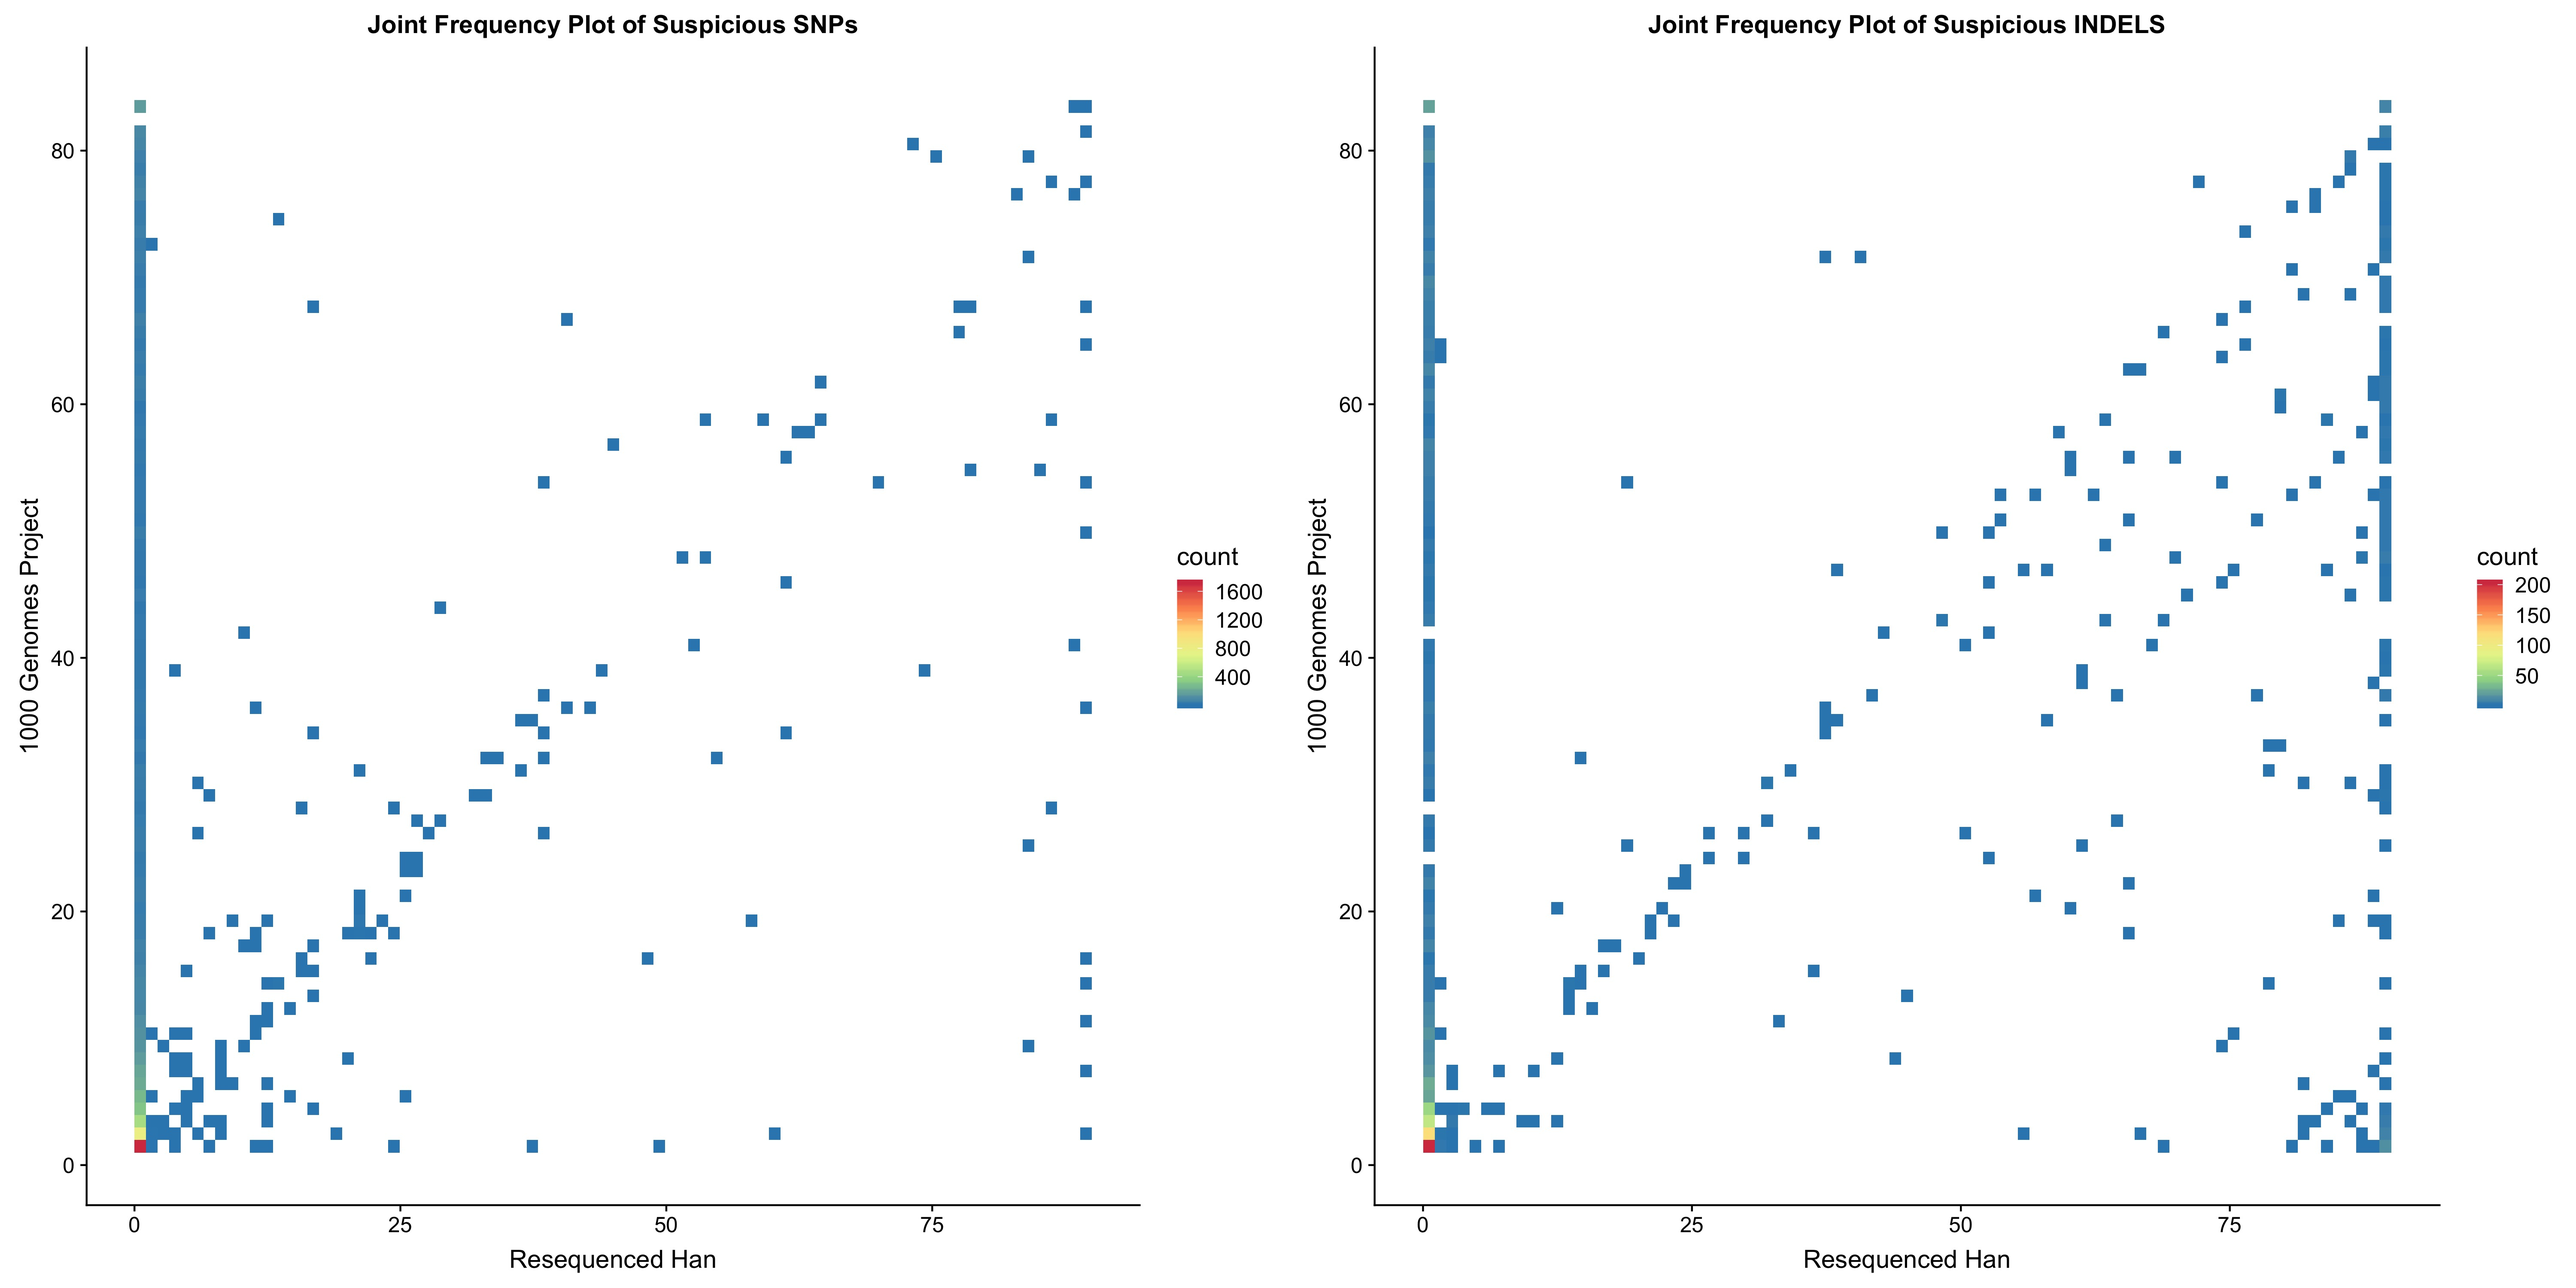
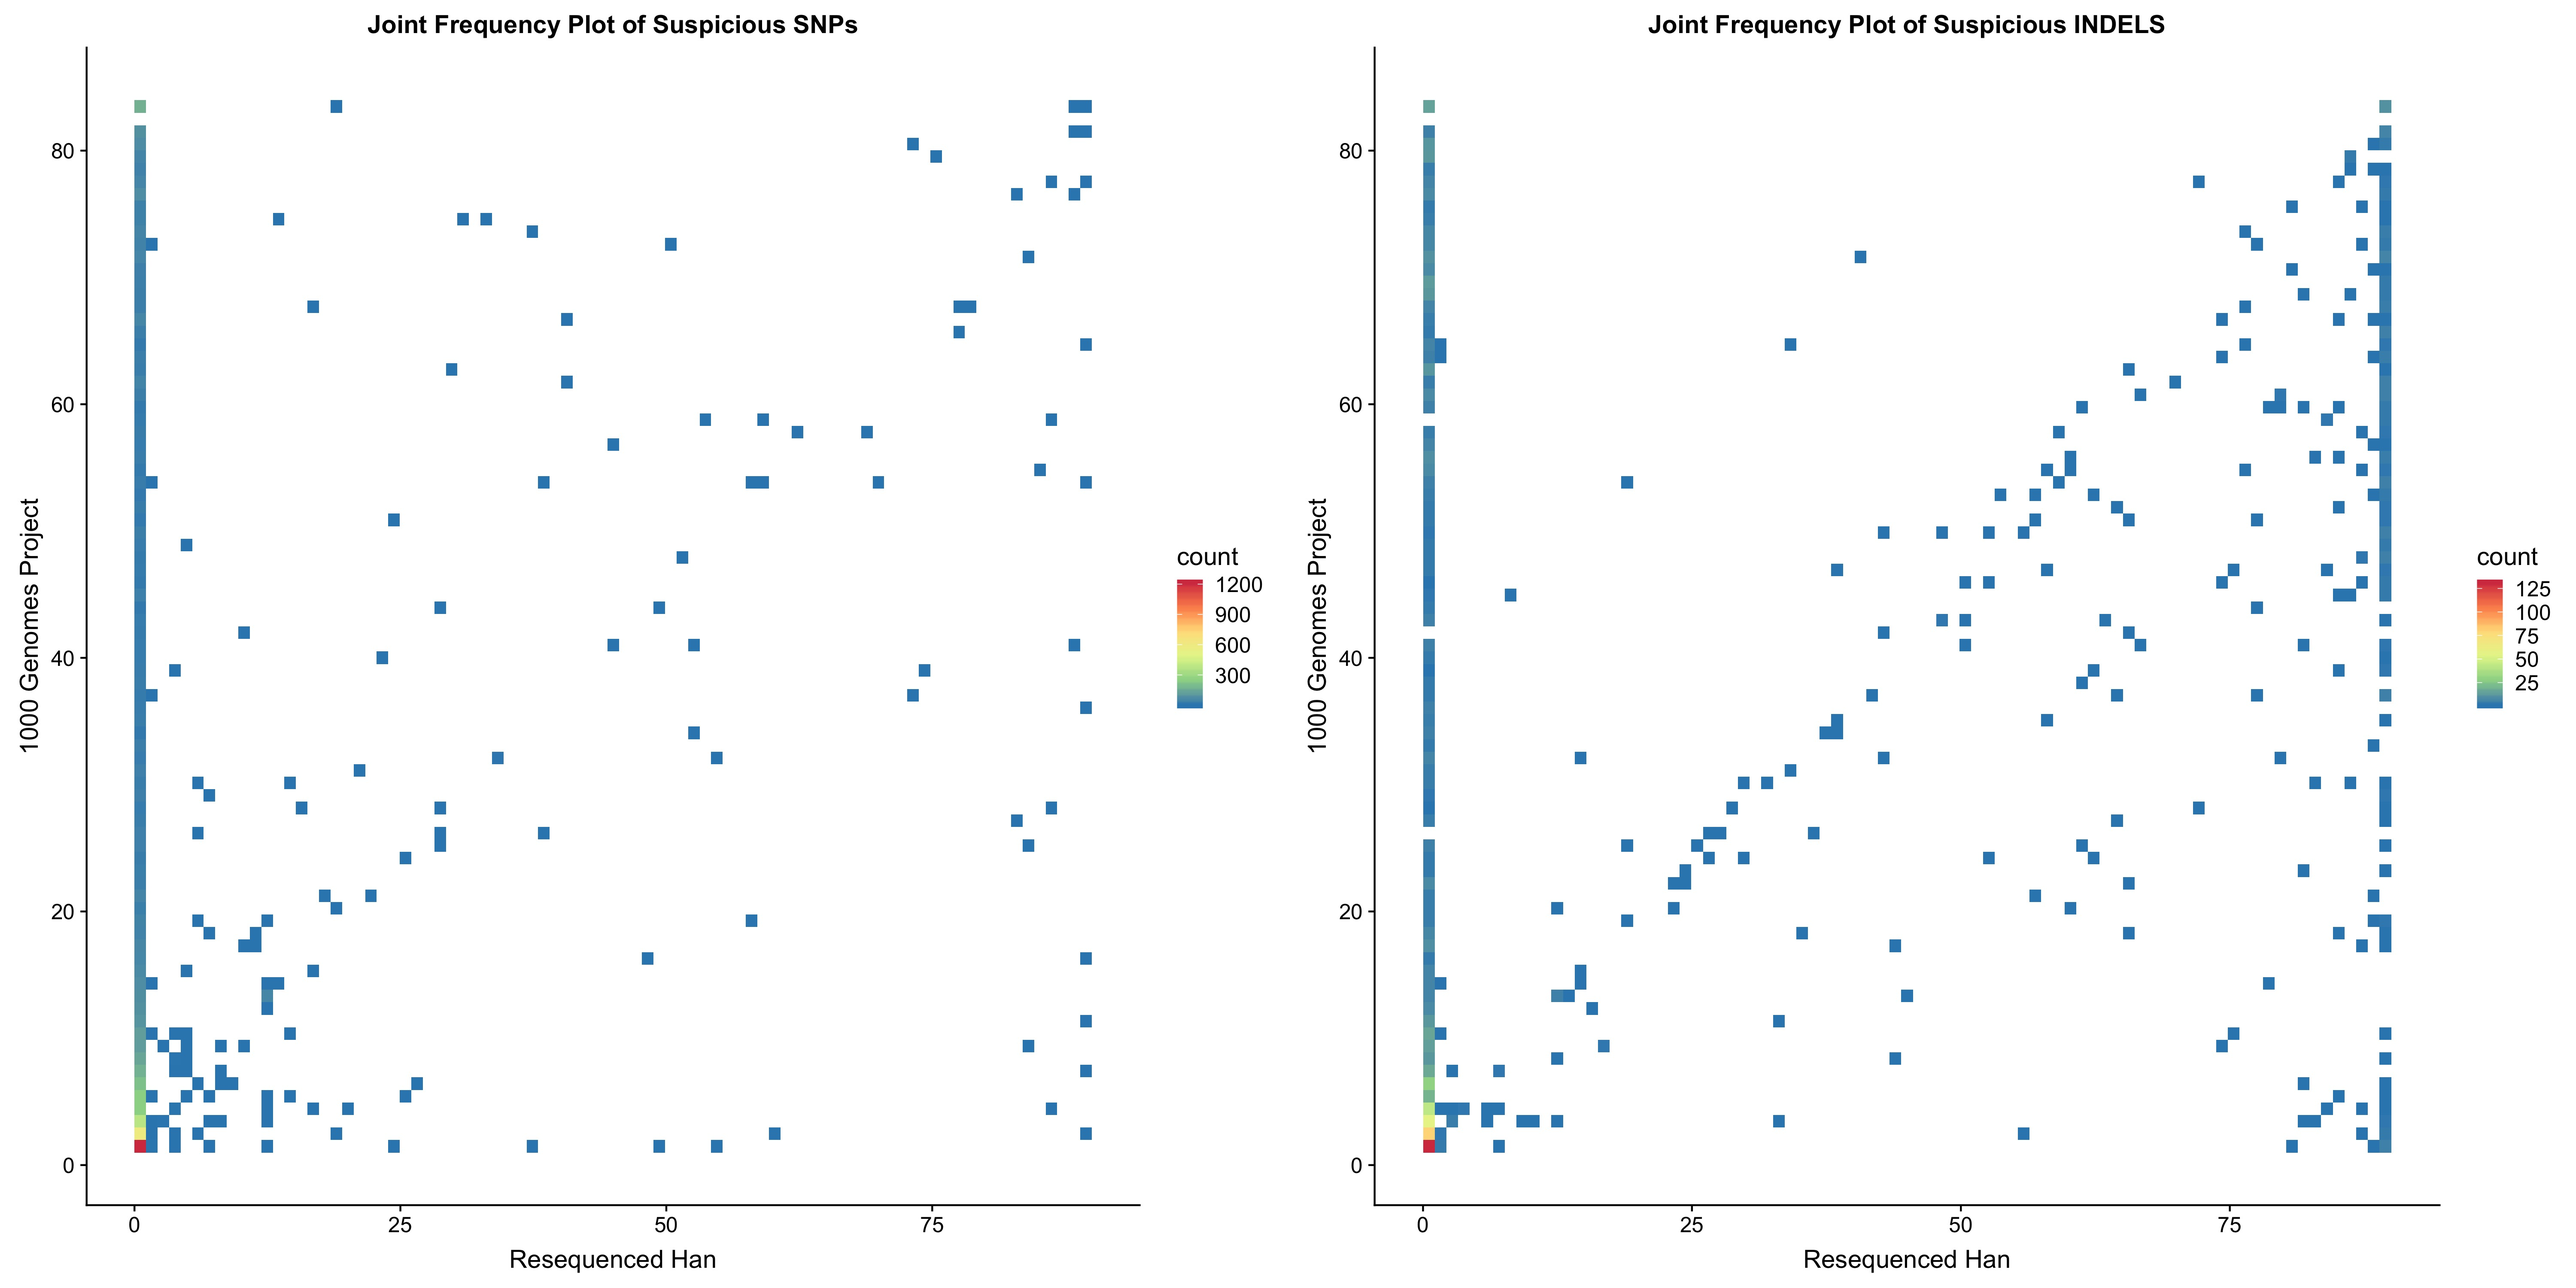
updated Han Resequenced plots

diff --git a/legacy.tex b/legacy.tex
@@ -213,8 +213,8 @@ To confirm this, we also ran the reverse-GWAS approach on these resequenced indi
 We found no correlation in p-values indicating that the SNPs in the resequenced dataset had no association to $Q$.
 
 We did a similar analysis using the variants identified in the \textit{5PC} model present in the 83 resequenced individuals.
-Of the 11,416 suspicious variants identified globally, only 8,697 of them are found in the 83 individuals in the original 1kGP data.
-From this subset, 8,085 of these variants are missing entirely from the resequenced data.
+Of the 11,416 suspicious variants identified globally, only 7,607 of them are found in the 83 individuals in the original 1kGP data.
+From this subset, only 613 of these variants are present in the resequenced data, the rest are missing entirely.
 We noticed a unusually large number of INDELs that are fixed in the resequenced data that are at lower frequencies in the 1kGP. (See Figure \ref{90HanSFS_full})
 
 \subsection{Suspicious variants impact modern genomics analyses}
@@ -230,7 +230,7 @@ This suggests that the imputation reference panel still includes individuals wit
 
 \subsubsection{Microarrays}
 
-We found that 476 of the variants we identified as being associated to $Q$ were present on Illumina's Omni 2.5 chip. This does not mean that these variants are false positives, but rather, that in the 1kGP, individuals with low $Q$ were less likely to be called as having a variant in that position. Moreover, using the 1kGP as a reference panel might impact the population allele frequencies observed for these positions.
+We found that 219 of the variants we identified as being associated to $Q$ were present on Illumina's Omni 2.5 chip. This does not mean that these variants are false positives, but rather, that in the 1kGP, individuals with low $Q$ were less likely to be called as having a variant in that position. Moreover, using the 1kGP as a reference panel might impact the population allele frequencies observed for these positions.
 
 \subsubsection{GWAS}
 
